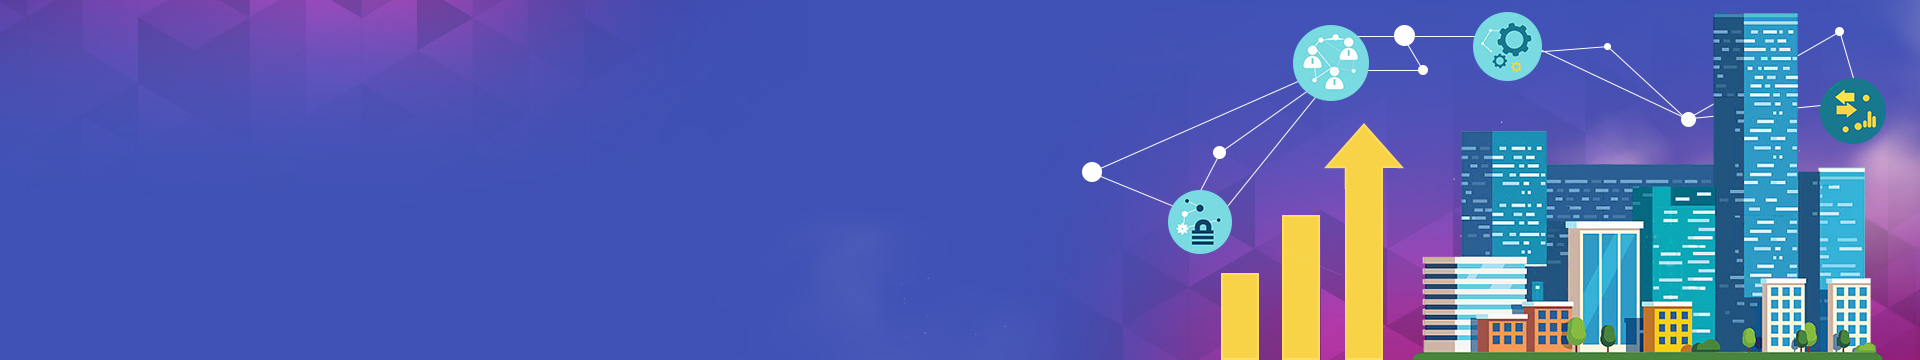
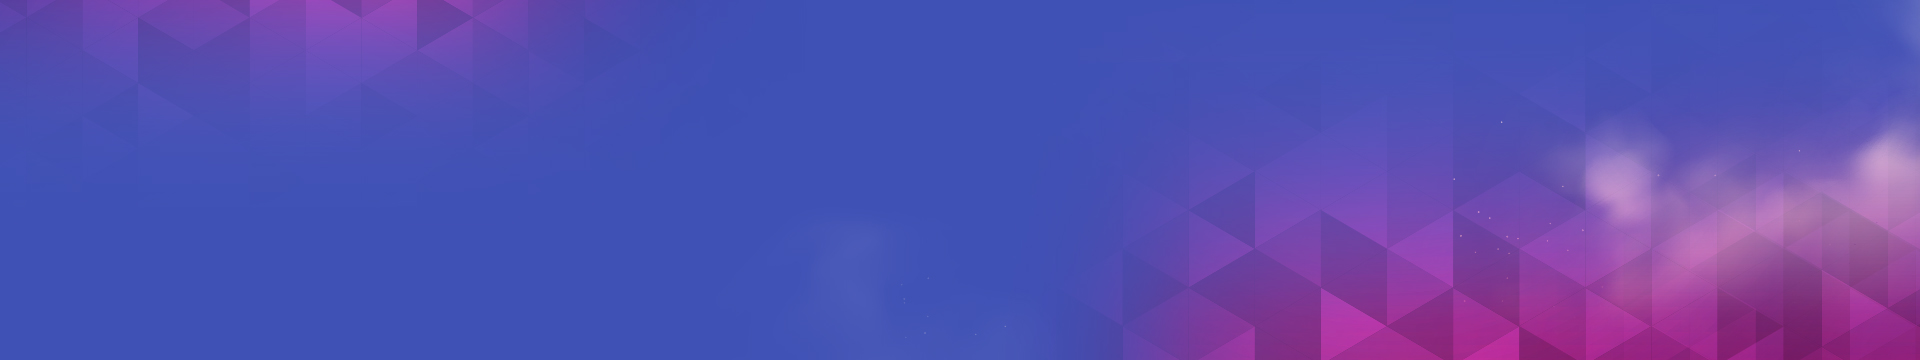
UI修改1222—3

diff --git a/v_search/static/css/index.css b/v_search/static/css/index.css
@@ -184,9 +184,9 @@ footer {
     margin-left: 0;
     /* margin-right: 0; */
     width: 100%;
-    background: url(../images/slogan.jpg);
+    background: url(../images/slogan.png);
     color: #fff;
-    background-position: -40px 0;
+    background-position: -20px 0;
     background-size: cover;
     /*background: #f5f5f5;
     margin: 1.5rem auto;
@@ -1163,8 +1163,28 @@ th {
         padding-left: 5px;
         margin-bottom: 10px;
     }
+    .bg1{
+        background: url(../images/slogan_m.jpg) #3f51b5;
+        display:block;
+        width: 100%;
+        height: 0;
+        padding-bottom: 70%;
+        overflow:hidden;
+        background-position: center bottom;
+        background-repeat: no-repeat;
+        background-size: contain;
+    }
+    .bgrwD{
+        max-width: 100%;
+        right: 0;
+        padding-top: 42px;
+    }
 }
-
+@media screen and (max-width: 768px) {
+    .bg1 {
+        padding-bottom: 89%;
+    }
+}
 @media screen and (max-width: 580px) {
     .bg1 {
         height: 100%;
@@ -1183,10 +1203,24 @@ th {
         max-height: 100px;
         margin-bottom: 2.5rem;
     }
+    .bg1 {
+        padding-bottom: 50%;
+    }
+    .font-weight-bold {
+        font-size: 30px;
+    }
+    h4{
+        font-size: 18px;
+    }
 }
 
 @media screen and (max-width: 480px) {
-    
+    .font-weight-bold {
+        font-size: 28px;
+    }
+    h4{
+        font-size: 18px;
+    }
 }
 @media only screen and (min-width: 1000px) and (max-width: 1600px) {
     .bg1 { 

diff --git a/v_search/templates/land_dev.html b/v_search/templates/land_dev.html
@@ -845,14 +845,14 @@
 
             <div v-if="!showResult">
                 <div class="row bg1">
-                    <div class="col-sm-7 d-flex1">
+                    <div class="col-sm-6 d-flex1 bgrwD">
                         <div class="align-self-center">
                             <h1 class="font-weight-bold mb-3">輕鬆幫您找出土地持有人</h1>
                             <h4 class="">搜尋土地開發範圍，輕鬆幫您找出土地持有人相關資訊</br>
                                 幫助您精準鎖定關係人進一步推進成交！</h4>
                         </div>
                     </div>
-                    <div class="col-sm-5">
+                    <div class="col-sm-6">
                         <!--img src="/static/images/slogan.png"-->
                     </div>
                 </div>
